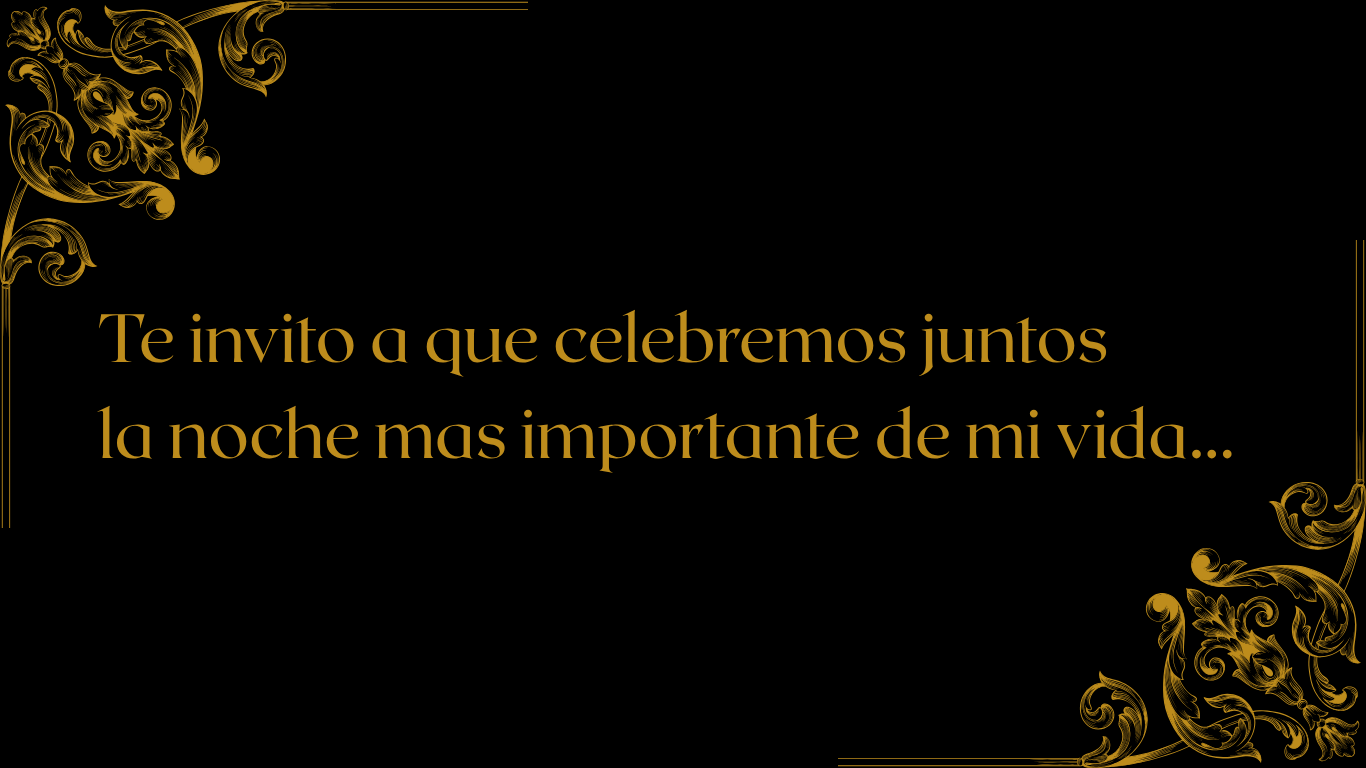
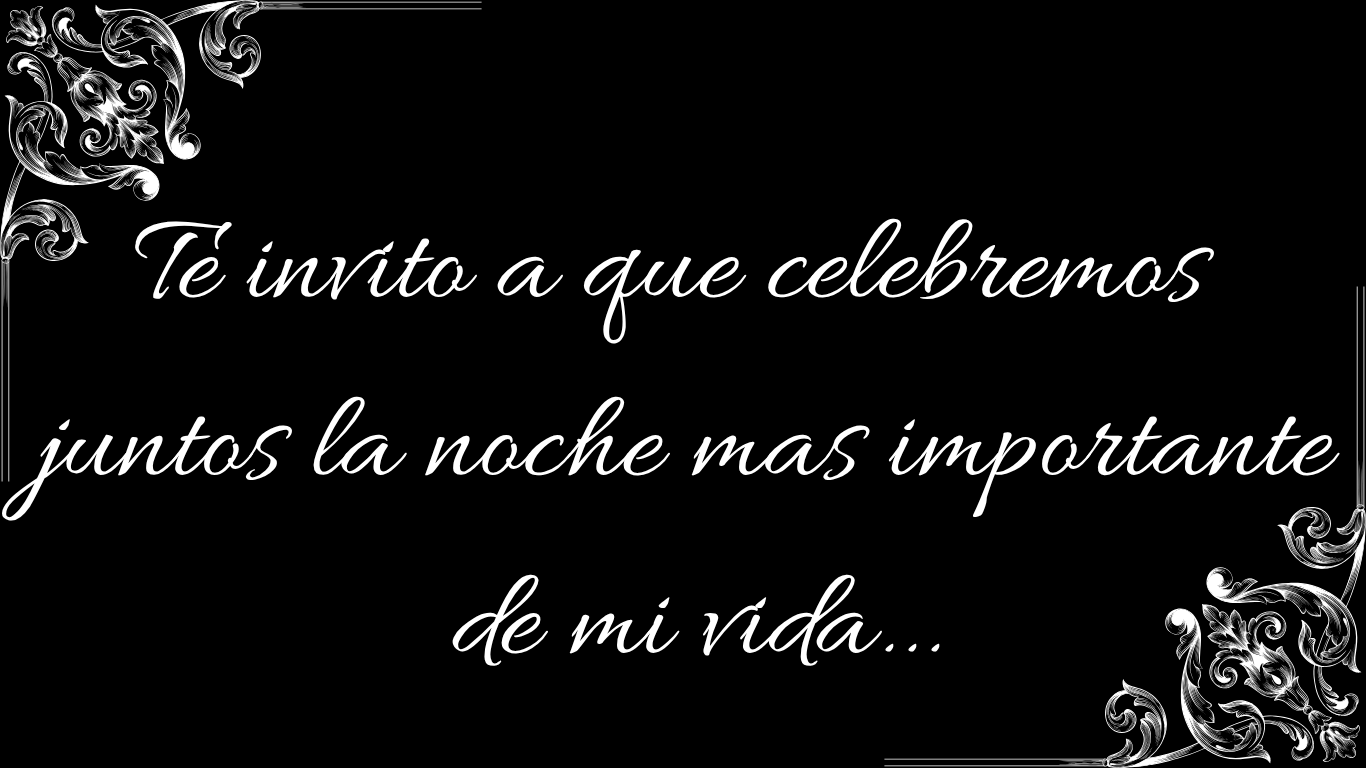
fixes

Changed region(s): [[0.0, 0.0, 0.8917, 0.5], [0.0, 0.3125, 1.0, 1.0], [0.3075, 0.75, 0.6457, 0.875]]

diff --git a/frontend/src/styles.css b/frontend/src/styles.css
@@ -31,7 +31,7 @@ textarea {
 
 .eventPage {
   min-height: 100vh;
-  background-color: black
+  background-color: black;
 }
 
 .section {
@@ -50,7 +50,7 @@ textarea {
 
   background-size: cover;
   background-position: center;
-  opacity: .5;
+  opacity: 0.5;
 }
 
 .section h2 {
@@ -86,8 +86,7 @@ textarea {
   width: min(100%, 920px);
   max-height: min(88vh, 820px);
   object-fit: contain;
-  border: 1px solid rgba(255, 255, 255, .16);
-  background: rgba(255, 255, 255, .06);
+  background: rgba(255, 255, 255, 0.06);
 }
 
 .featuredVideoSection video {
@@ -101,10 +100,10 @@ textarea {
 }
 
 .countItem {
-  border: 1px solid rgba(255, 255, 255, .15);
+  border: 1px solid rgba(255, 255, 255, 0.15);
   padding: 24px;
   text-align: center;
-  background: rgba(255, 255, 255, .04);
+  background: rgba(255, 255, 255, 0.04);
 }
 
 .countItem strong {
@@ -138,8 +137,8 @@ textarea {
   aspect-ratio: 4 / 5;
   padding: 0;
   overflow: hidden;
-  border: 1px solid rgba(255, 255, 255, .16);
-  background: rgba(255, 255, 255, .06);
+  border: 1px solid rgba(255, 255, 255, 0.16);
+  background: rgba(255, 255, 255, 0.06);
   cursor: zoom-in;
 }
 
@@ -150,7 +149,7 @@ textarea {
 }
 
 .carouselImage img {
-  animation: carouselFade .7s ease both;
+  animation: carouselFade 0.7s ease both;
 }
 
 .carouselImage span {
@@ -161,7 +160,7 @@ textarea {
   align-items: center;
   gap: 8px;
   padding: 8px 10px;
-  background: rgba(17, 17, 17, .76);
+  background: rgba(17, 17, 17, 0.76);
   color: var(--color-secondary);
   font-size: 14px;
 }
@@ -171,8 +170,8 @@ textarea {
   z-index: 2;
   width: 44px;
   height: 44px;
-  border: 1px solid rgba(255, 255, 255, .2);
-  background: rgba(17, 17, 17, .72);
+  border: 1px solid rgba(255, 255, 255, 0.2);
+  background: rgba(17, 17, 17, 0.72);
   color: var(--color-text);
   display: grid;
   place-items: center;
@@ -199,9 +198,9 @@ textarea {
   width: 58px;
   height: 58px;
   padding: 0;
-  border: 1px solid rgba(255, 255, 255, .18);
+  border: 1px solid rgba(255, 255, 255, 0.18);
   background: transparent;
-  opacity: .58;
+  opacity: 0.58;
   cursor: pointer;
 }
 
@@ -221,7 +220,7 @@ textarea {
   inset: 0;
   z-index: 20;
   border: 0;
-  background: rgba(0, 0, 0, .86);
+  background: rgba(0, 0, 0, 0.86);
   cursor: zoom-out;
 }
 
@@ -233,7 +232,7 @@ textarea {
 
 @keyframes carouselFade {
   from {
-    opacity: .25;
+    opacity: 0.25;
     transform: scale(1.012);
   }
 
@@ -254,7 +253,7 @@ textarea {
   width: 100%;
   min-height: 360px;
   border: 0;
-  filter: grayscale(.25);
+  filter: grayscale(0.25);
 }
 
 .button {
@@ -272,12 +271,12 @@ textarea {
 }
 
 .button:disabled {
-  opacity: .45;
+  opacity: 0.45;
   cursor: not-allowed;
 }
 
 .compact {
-  border-top: 1px solid rgba(255, 255, 255, .14);
+  border-top: 1px solid rgba(255, 255, 255, 0.14);
 }
 
 .mercadoPagoButton {
@@ -307,8 +306,8 @@ textarea {
 .rsvp select,
 .rsvp textarea {
   width: 100%;
-  border: 1px solid rgba(255, 255, 255, .18);
-  background: rgba(255, 255, 255, .06);
+  border: 1px solid rgba(255, 255, 255, 0.18);
+  background: rgba(255, 255, 255, 0.06);
   color: var(--color-text);
   padding: 14px;
 }
@@ -329,31 +328,7 @@ textarea {
   color: var(--color-primary);
 }
 
-.floatingMusic {
-  position: fixed;
-  right: 18px;
-  bottom: 18px;
-  z-index: 15;
-  display: flex;
-  align-items: center;
-  gap: 8px;
-  padding: 10px;
-  border: 1px solid rgba(255, 255, 255, .16);
-  backdrop-filter: blur(12px);
-
-
-}
-
-.floatingMusicEmbed {
-  position: absolute;
-  width: 1px;
-  height: 1px;
-  overflow: hidden;
-  opacity: 0;
-  pointer-events: none;
-}
-
-.floatingMusicAudio {
+.hiddenAudio {
   position: fixed;
   left: -9999px;
   width: 0;
@@ -362,17 +337,36 @@ textarea {
   pointer-events: none;
 }
 
-.floatingMusic button {
-  width: 36px;
-  height: 36px;
-  border: 0;
-  display: grid;
-  place-items: center;
-  cursor: pointer;
+.introScreen {
+  min-height: 100vh;
+  display: flex;
+  flex-direction: column;
+  align-items: center;
+  justify-content: center;
+  gap: 40px;
+  padding: 24px;
+  text-align: center;
+  background-color: var(--color-background);
 }
 
-.floatingMusic input {
-  width: 86px;
+.introScreen__title {
+  font-family: var(--font-heading);
+  font-size: clamp(36px, 8vw, 72px);
+  color: var(--color-primary);
+  margin: 0;
+}
+
+.introScreen__actions {
+  display: flex;
+  flex-direction: column;
+  gap: 16px;
+  width: 100%;
+  max-width: 320px;
+}
+
+.buttonOutline {
+  background: transparent;
+  color: var(--color-text);
 }
 
 .footer {
@@ -405,6 +399,7 @@ textarea {
 
   .countdown {
     grid-template-columns: repeat(2, 1fr);
+    padding-top: 0px;
   }
 
   .carouselImage {

diff --git a/frontend/src/pages/EventPage/EventPage.tsx b/frontend/src/pages/EventPage/EventPage.tsx
@@ -1,11 +1,12 @@
+import { useRef, useState } from 'react';
 import { AnimationProvider } from '../../components/AnimationProvider/AnimationProvider';
 import { Countdown } from '../../components/Countdown/Countdown';
 import { DressCode } from '../../components/DressCode/DressCode';
 import { FeaturedMedia } from '../../components/FeaturedMedia/FeaturedMedia';
-import { FloatingMusic } from '../../components/FloatingMusic/FloatingMusic';
 import { Footer } from '../../components/Footer/Footer';
 import { Gallery } from '../../components/Gallery/Gallery';
 import { GiftSection } from '../../components/GiftSection/GiftSection';
+import { IntroScreen } from '../../components/IntroScreen/IntroScreen';
 import { Location } from '../../components/Location/Location';
 import { Quote } from '../../components/Quote/Quote';
 import { RSVP } from '../../components/RSVP/RSVP';
@@ -21,22 +22,36 @@ const galleryImages = [imagen2, imagen3, imagen4];
 
 export const EventPage = () => {
   const event = useEventConfig();
+  const [entered, setEntered] = useState(false);
+  const audioRef = useRef<HTMLAudioElement>(null);
+
+  const handleEnter = (withMusic: boolean) => {
+    if (withMusic && audioRef.current) {
+      audioRef.current.volume = 1;
+      void audioRef.current.play().catch(() => undefined);
+    }
+    setEntered(true);
+  };
 
   return (
     <ThemeProvider config={event}>
       <AnimationProvider>
-        <main className="eventPage">
-          <FeaturedMedia />
-          <Countdown countdown={event.countdown} />
-          <Quote/>
-          <Gallery images={galleryImages} />
-          <Location event={event} />
-          <DressCode title={event.dressCode.title} value={event.dressCode.value} description={event.dressCode.description} />
-          <GiftSection gifts={event.gifts} mercadoPago={event.mercadoPago} />
-          <RSVP event={event} />
-          <Footer event={event} />
-          <FloatingMusic audioUrl={backgroundMusic} />
-        </main>
+        <audio ref={audioRef} className="hiddenAudio" src={backgroundMusic} loop preload="auto" />
+        {entered ? (
+          <main className="eventPage">
+            <FeaturedMedia />
+            <Countdown countdown={event.countdown} />
+            <Quote/>
+            <Gallery images={galleryImages} />
+            <Location event={event} />
+            <DressCode title={event.dressCode.title} value={event.dressCode.value} description={event.dressCode.description} />
+            <GiftSection gifts={event.gifts} mercadoPago={event.mercadoPago} />
+            <RSVP event={event} />
+            <Footer event={event} />
+          </main>
+        ) : (
+          <IntroScreen onEnter={handleEnter} />
+        )}
       </AnimationProvider>
     </ThemeProvider>
   );

diff --git a/frontend/src/components/IntroScreen/IntroScreen.tsx b/frontend/src/components/IntroScreen/IntroScreen.tsx
@@ -1,0 +1,23 @@
+import { useEventConfig } from '../../context/EventContext';
+
+type IntroScreenProps = {
+  onEnter: (withMusic: boolean) => void;
+};
+
+export const IntroScreen = ({ onEnter }: IntroScreenProps) => {
+  const event = useEventConfig();
+
+  return (
+    <div className="introScreen">
+      <h1 className="introScreen__title">{event.name}</h1>
+      <div className="introScreen__actions">
+        <button type="button" className="button" onClick={() => onEnter(true)}>
+          Ingresar con música
+        </button>
+        <button type="button" className="button buttonOutline" onClick={() => onEnter(false)}>
+          Ingresar sin música
+        </button>
+      </div>
+    </div>
+  );
+};

diff --git a/CLAUDE.md b/CLAUDE.md
@@ -1,0 +1,38 @@
+# CLAUDE.md
+
+This file provides guidance to Claude Code (claude.ai/code) when working with code in this repository.
+
+## Project overview
+
+A static digital invitation ("Almi Mis XV") built with React + Vite + TypeScript. It's an npm workspaces monorepo with a single workspace, `frontend`. There is no backend — RSVP form submissions go directly to FormSubmit from the browser.
+
+## Commands
+
+Run from the repo root (npm workspaces):
+
+```bash
+npm install          # install deps for all workspaces
+npm run dev           # start Vite dev server on http://localhost:8080
+npm run build          # tsc typecheck + vite build (runs in frontend workspace)
+npm run lint           # tsc --noEmit (there is no eslint config; "lint" is a typecheck)
+```
+
+These can also be run directly inside `frontend/` (e.g. `cd frontend && npm run dev`).
+
+There is no test suite or test runner configured, despite `.github/workflows/ci.yml` invoking `npm run test` — that script does not exist in `package.json`, so CI will fail on that step until either a `test` script is added or the step is removed.
+
+## Architecture
+
+- **Single-event, config-driven design.** Nearly everything about the invitation (couple/event name, colors, fonts, location, dress code, gifts, RSVP recipient, countdown target, calendar details, Spotify playlist) is data-driven from `frontend/src/event.json`, typed by `EventConfig` in `frontend/src/types.ts`. To adapt this invitation for a different event, edit `event.json`, not the components.
+- **Context, not props-drilling.** `EventContext` (`frontend/src/context/EventContext.tsx`) loads `event.json` and exposes it via `useEventConfig()`. `App.tsx` wraps everything in `EventProvider`, and `EventPage.tsx` is the sole place that reads the config and passes slices of it down to section components.
+- **Page composition.** `frontend/src/pages/EventPage/EventPage.tsx` is the top-level layout: it assembles all section components in fixed order (FeaturedMedia, Countdown, Quote, Gallery, Location, DressCode, GiftSection, RSVP, Footer, FloatingMusic) inside `ThemeProvider` and `AnimationProvider`.
+- **Theming via CSS variables.** `ThemeProvider` (`frontend/src/components/ThemeProvider/ThemeProvider.tsx`) takes `event.colors`/`event.typography` and sets them as CSS custom properties (`--color-primary`, `--font-heading`, etc.) on a wrapping `div`; component styles in `styles.css` consume those variables. There's no CSS-in-JS or theme object passed through props beyond this.
+- **Animation defaults.** `AnimationProvider` wraps the page in Framer Motion's `MotionConfig` to set a shared transition (duration/easing) for all motion components, rather than each component configuring its own.
+- **Music playback state.** `frontend/src/context/musicStore.ts` is a small Zustand store (`useMusicStore`) tracking background-music enabled/volume/user-interaction state, read by `FloatingMusic`. This is the only global client state outside of `EventContext`.
+- **Assets are imported, not referenced by path.** Images/audio/video used in the page (e.g. gallery images, background music) live in `frontend/src/assets/events/almi/` and are imported as ES modules directly in `EventPage.tsx` (or the relevant component) so Vite fingerprints and bundles them correctly. Do not reference these assets via string paths.
+- **RSVP + Calendar integration.** `frontend/src/utils/api.ts` has two responsibilities: `submitRsvp` POSTs form data to `https://formsubmit.co/ajax/<organizerEmail>` (organizer email comes from `event.json`'s `rsvp.organizerEmail`), and `createGoogleCalendarUrl` builds a "add to Google Calendar" URL client-side from `event.calendar` dates — no backend/API server is involved anywhere in this app.
+- **Component folder convention.** Each component lives in its own directory under `frontend/src/components/<Name>/<Name>.tsx` (e.g. `components/RSVP/RSVP.tsx`), one component per folder.
+
+## Deployment
+
+`frontend/Dockerfile` builds the app (`npm run build`) and serves it via `vite preview` on port 8080. There's no separate static-file server config (e.g. nginx) in this repo.